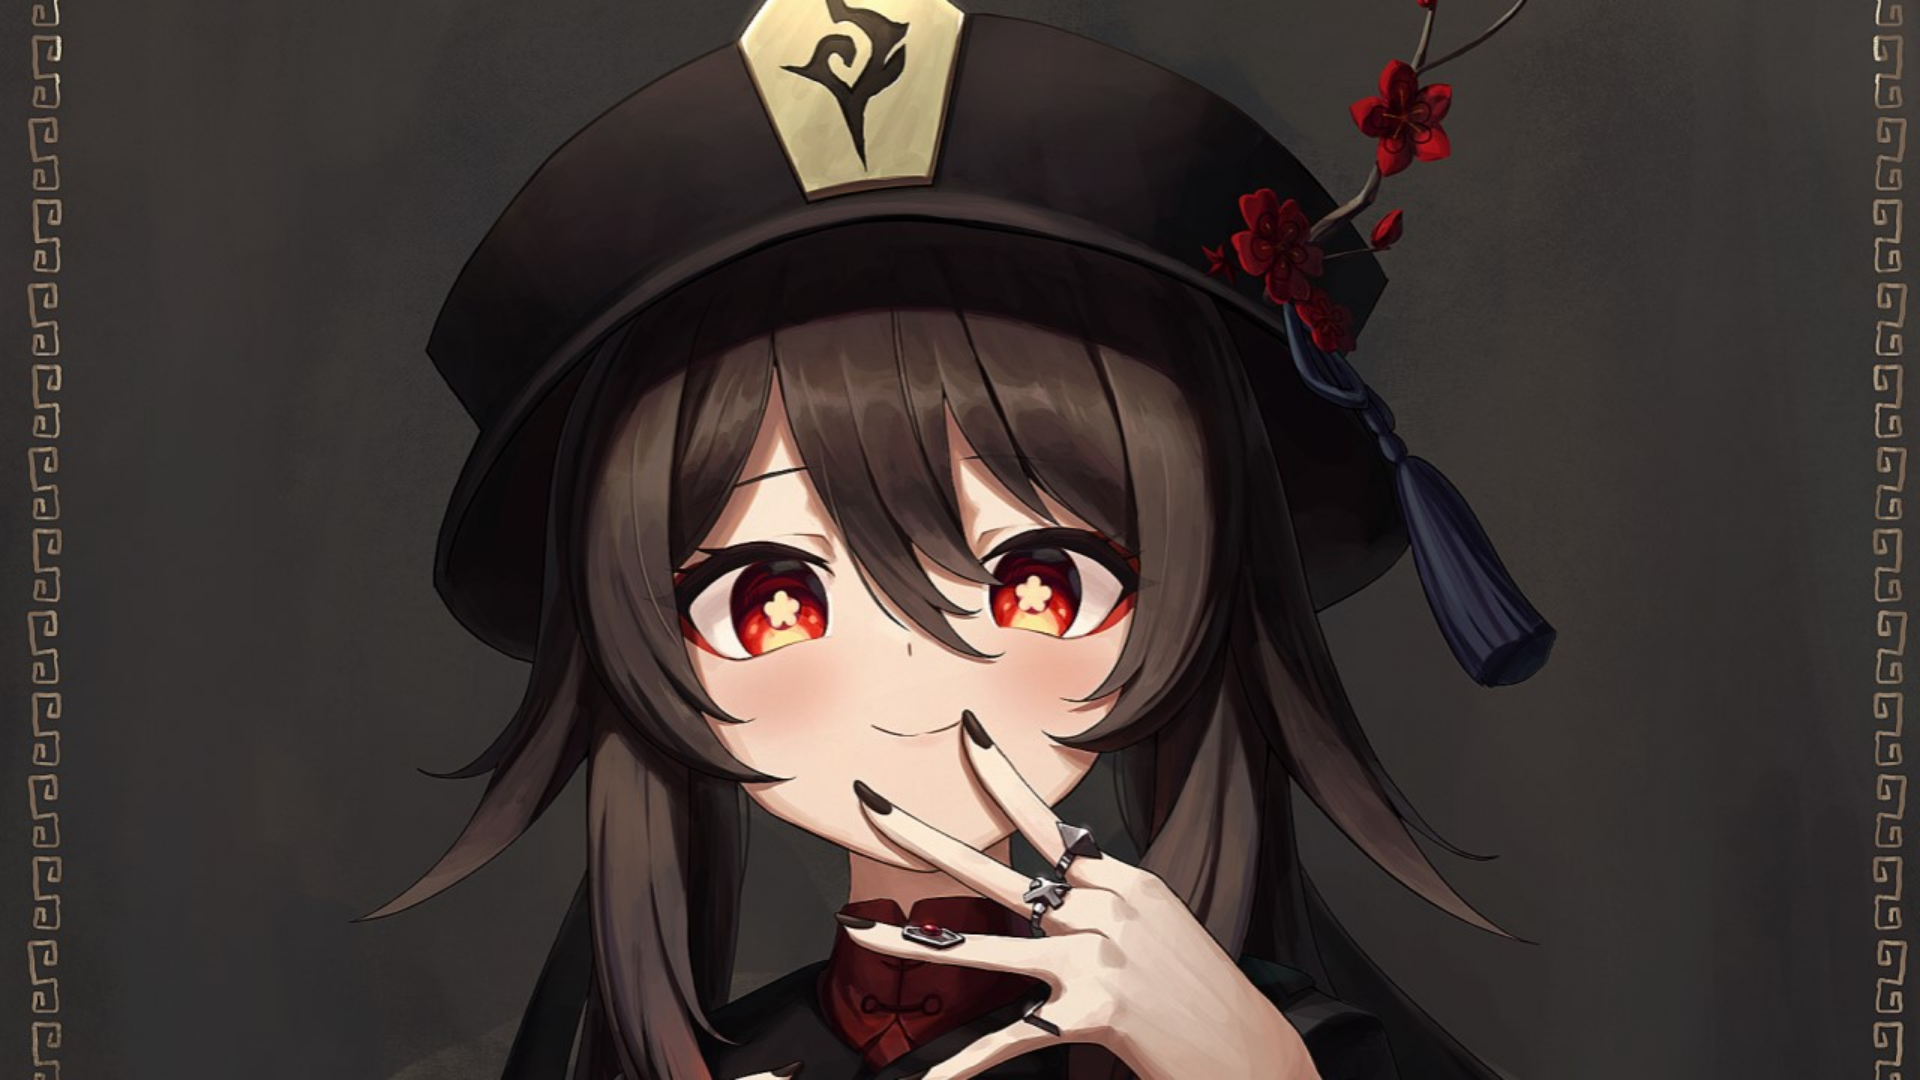
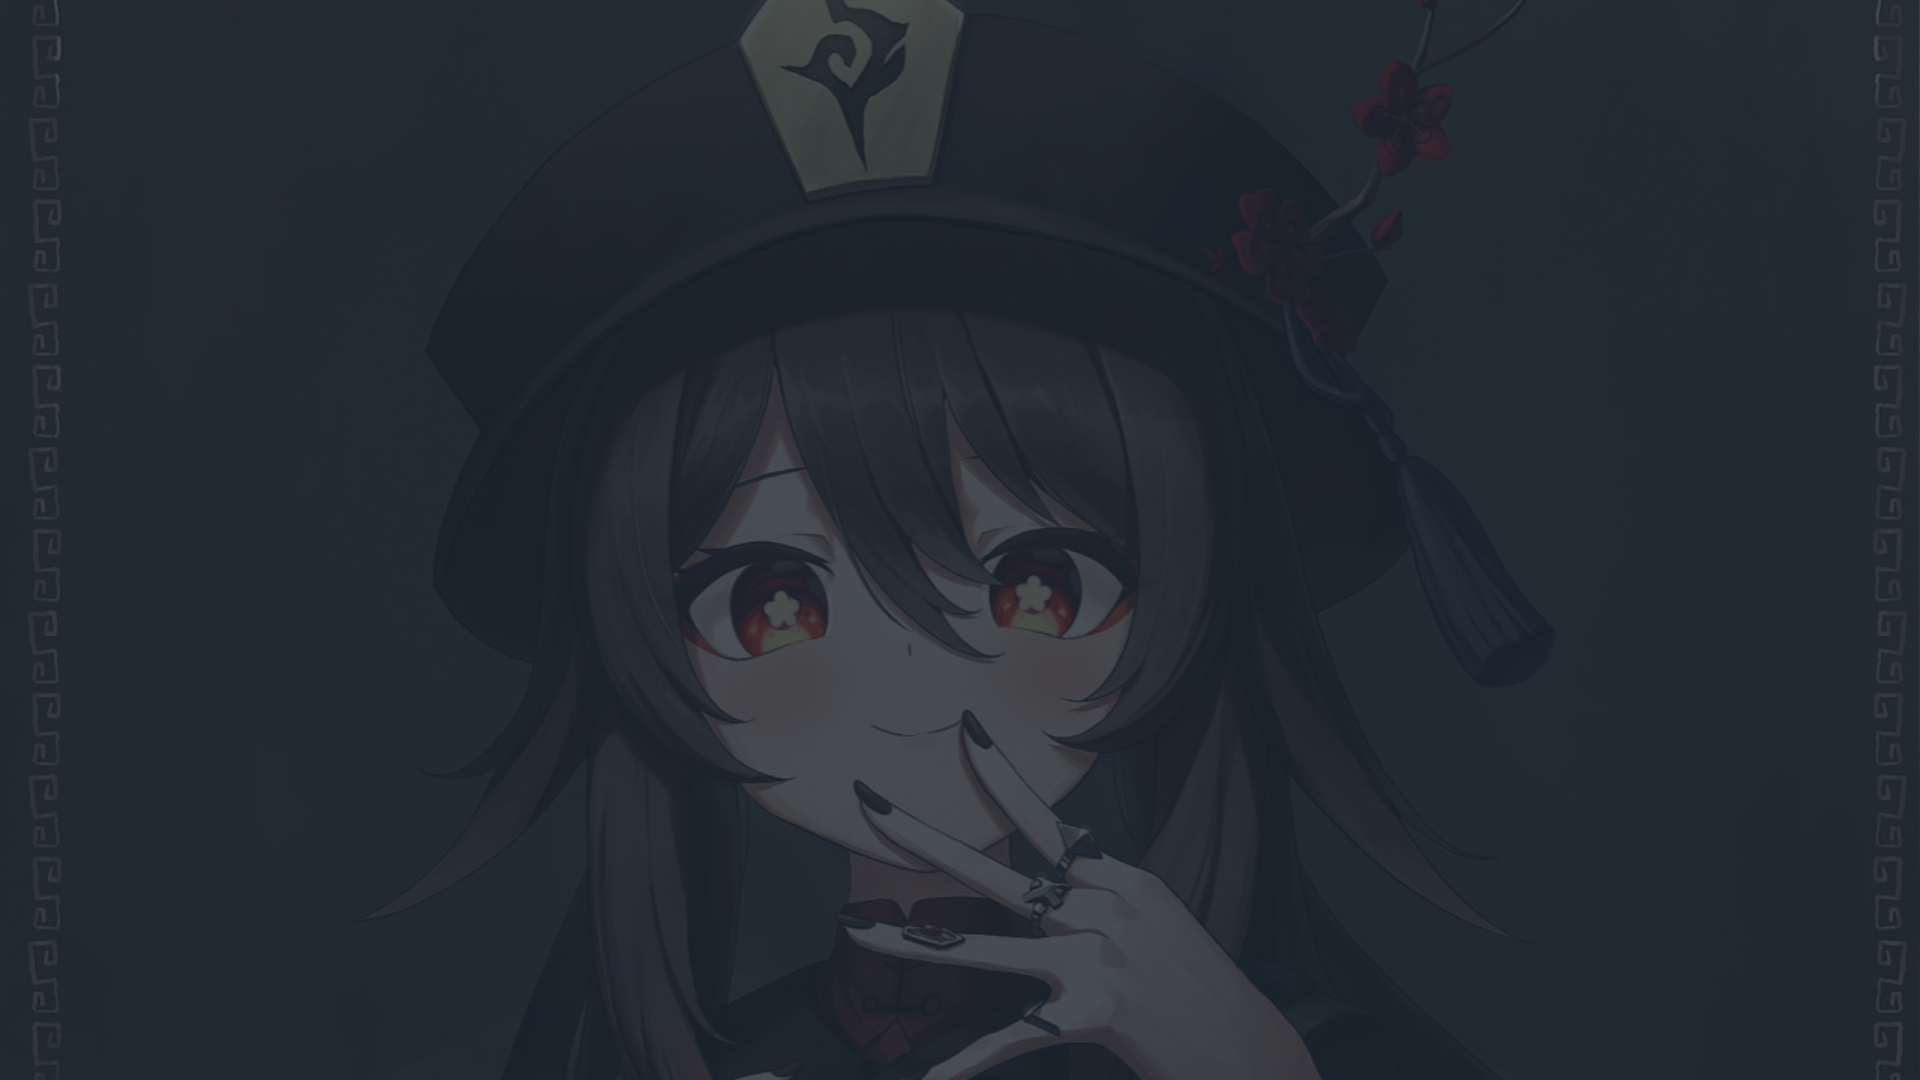
background

diff --git a/styles.css b/styles.css
@@ -3,9 +3,16 @@
     src: url(https://ephrem-adugna.github.io/aether-discord/assets/zh-cn.ttf);
 }
 @media only screen and (min-width: 1910px) {
-   body {
-       background: url('./assets/background.png') fixed no-repeat center;
-       background-size: 100%;
+
+   .time {
+       position: absolute;
+       top: 50%;
+       left: 50%;
+       transform: translate(-50%, -50%);
+       z-index: 3;
+       width: 100%;
+       color: white;
+       padding-left: 50%;
    }
 }
 
@@ -13,16 +20,7 @@
     font-family: genshinfont;
 }
 
-.time{
-        position: absolute;
-        top: 50%;
-        left: 50%;
-transform: translate(-50%, -50%);
-    z-index: 3;
-    width: 100%;
-    color: white;
-    padding-left: 50%;
-}
+
 .days, .hours, .minutes, .seconds{
     display: inline-block;
     font-size: 120px;
@@ -61,22 +59,24 @@ width: 183px;
     -webkit-text-stroke: 2px black;
 }
 
-.makeopaque {
-    position: absolute;
-    left: 0;
-    top: 0;
-    width: 100%;
-    height: 190%;
-    opacity: 0.6;
-    z-index: 2;
-    background-color: black;
-}
-@media only screen and (max-width: 1909px) {
     body {
         background: url('./assets/background.png') fixed no-repeat center;
+        -webkit-background-size: cover;
+        -moz-background-size: cover;
+        -o-background-size: cover;
+        background-size: cover;
     }
-.time{
+@media only screen and (max-width: 1909px) {
+
+.time {
+    position: absolute;
+    top: 50%;
     left: 45%;
+    transform: translate(-50%, -50%);
+    z-index: 3;
+    width: 100%;
+    color: white;
+    padding-left: 50%;
 }
 }
 ::-webkit-scrollbar{

diff --git a/index.html b/index.html
@@ -8,7 +8,6 @@
     <title>Hu Tao Countdown!</title>
 </head>
 <body>
-    <div class="makeopaque"></div>
     <div class="time">
         <div class="days"><span id="days"></span><span class="innermeaning">Days</span></div>
         <div class="hours"><span id="hours"></span><span class="innermeaning">Hours</span></div>
